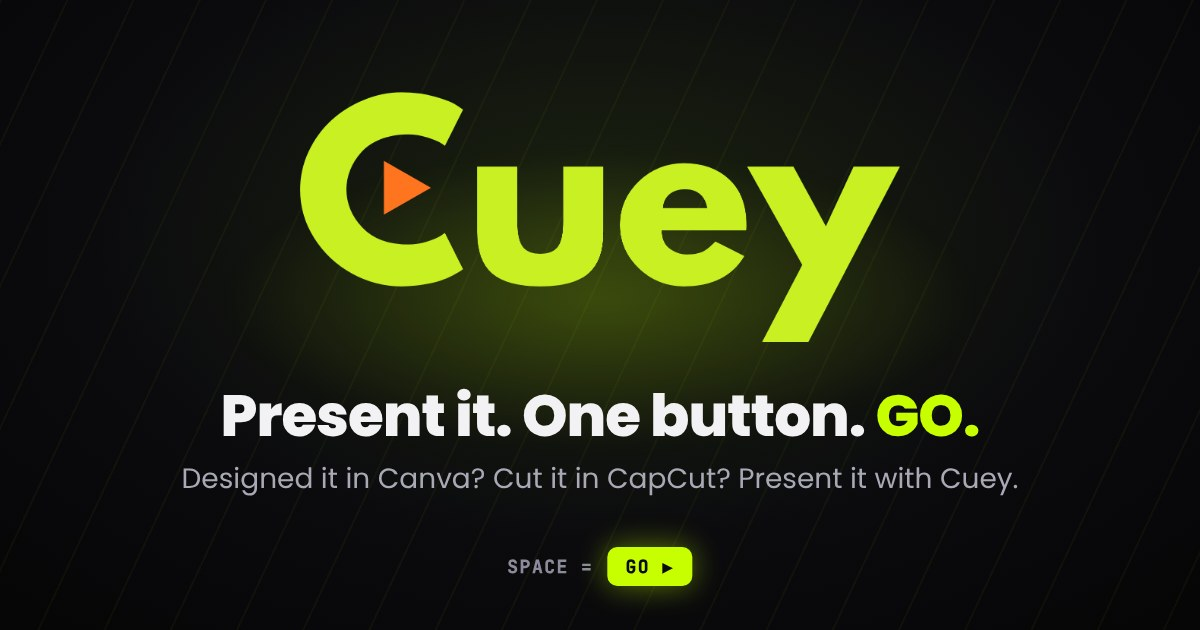
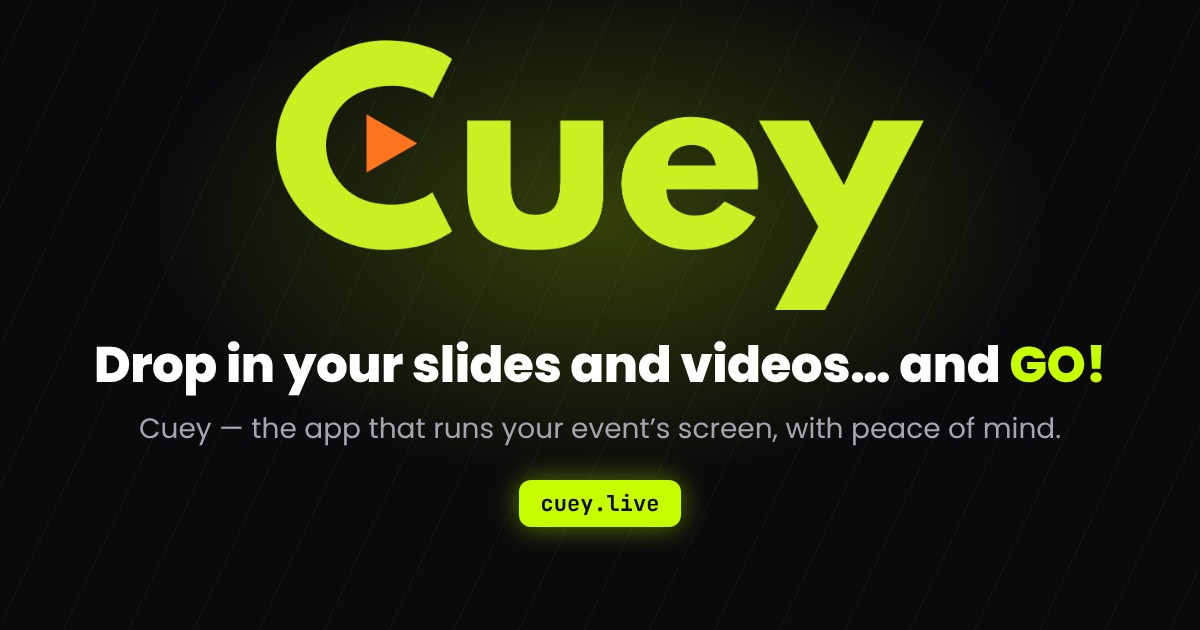
New share images (OG) with the new tagline and cuey.live; architecture: price ₪39/$12 and tagline
Claude-Session: https://claude.ai/code/session_01X78F4Nz5muKsTt7WRiCF3z

Changed region(s): [[0.0617, 0.0603, 0.925, 0.6937], [0.1542, 0.7238, 0.8633, 0.9651]]

diff --git a/docs/he/index.html b/docs/he/index.html
@@ -8,7 +8,7 @@
 <meta name="description" content="מארגנים אירוע, כנס או מופע? פשוט זורקים פנימה את כל השקופיות והסרטונים ולוחצים GO. Cuey — האפליקציה להפעלת התוכן באירוע, בראש שקט. נסו בחינם בדפדפן.">
 <meta property="og:title" content="Cuey — זורקים פנימה את השקופיות והסרטונים ו..GO!">
 <meta property="og:description" content="מארגנים אירוע, כנס או מופע? פשוט זורקים פנימה את השקופיות והסרטונים ו..GO! האפליקציה להפעלת התוכן באירוע, בראש שקט — נסו בחינם.">
-<meta property="og:image" content="https://cuey.live/og-he.jpg">
+<meta property="og:image" content="https://cuey.live/og-he.jpg?v=2">
 <meta property="og:image:width" content="1200">
 <meta property="og:image:height" content="630">
 <meta property="og:image:alt" content="Cuey — Present it. One button. GO.">
@@ -16,7 +16,7 @@
 <meta property="og:url" content="https://cuey.live/he/">
 <meta property="og:site_name" content="Cuey">
 <meta name="twitter:card" content="summary_large_image">
-<meta name="twitter:image" content="https://cuey.live/og-he.jpg">
+<meta name="twitter:image" content="https://cuey.live/og-he.jpg?v=2">
 <link rel="icon" href="../favicon.png">
 <link rel="preconnect" href="https://fonts.googleapis.com">
 <link href="https://fonts.googleapis.com/css2?family=Poppins:wght@400;500;600;700;800&family=Heebo:wght@400;500;600;700;800&family=JetBrains+Mono:wght@500&display=swap" rel="stylesheet">

diff --git a/docs/index.html b/docs/index.html
@@ -8,7 +8,7 @@
 <meta name="description" content="Running an event, a conference or a show? Just drop in all your slides and videos and press GO. Cuey — the app that runs your event’s screen, with peace of mind. Try it free in your browser.">
 <meta property="og:title" content="Cuey — Drop in your slides and videos… and GO!">
 <meta property="og:description" content="Running an event, a conference or a show? Just drop in your slides and videos… and GO! The app that runs your event’s screen — try it free.">
-<meta property="og:image" content="https://cuey.live/og-en.jpg">
+<meta property="og:image" content="https://cuey.live/og-en.jpg?v=2">
 <meta property="og:image:width" content="1200">
 <meta property="og:image:height" content="630">
 <meta property="og:image:alt" content="Cuey — Present it. One button. GO.">
@@ -16,7 +16,7 @@
 <meta property="og:url" content="https://cuey.live/">
 <meta property="og:site_name" content="Cuey">
 <meta name="twitter:card" content="summary_large_image">
-<meta name="twitter:image" content="https://cuey.live/og-en.jpg">
+<meta name="twitter:image" content="https://cuey.live/og-en.jpg?v=2">
 <link rel="icon" href="favicon.png">
 <link rel="preconnect" href="https://fonts.googleapis.com">
 <link href="https://fonts.googleapis.com/css2?family=Poppins:wght@400;500;600;700;800&family=JetBrains+Mono:wght@500&display=swap" rel="stylesheet">

diff --git a/app/cuey.html b/app/cuey.html
@@ -5,7 +5,7 @@
 <title>Cuey</title>
 <meta property="og:title" content="Cuey — Present it. One button. GO.">
 <meta property="og:description" content="Video & slide playback for live events — open it in your browser and press GO.">
-<meta property="og:image" content="https://cuey.live/og-en.jpg">
+<meta property="og:image" content="https://cuey.live/og-en.jpg?v=2">
 <meta property="og:image:width" content="1200">
 <meta property="og:image:height" content="630">
 <meta property="og:type" content="website">

diff --git a/ARCHITECTURE.md b/ARCHITECTURE.md
@@ -153,7 +153,7 @@ What is **fake** in the mockup: QR, code, link `cuey.app/s/4k7p`, "1 screen conn
 
 | | Free | Cuey Studio | Pro |
 |---|---|---|---|
-| Price | 0, forever | **$8 one-time** per account (chosen over monthly) | Subscription (price set once there is something to sell) |
+| Price | 0, forever | **$12 / ₪39 one-time** per account (was $8; chosen over monthly — monthly/annual still under discussion) | Subscription (price set once there is something to sell) |
 | Running a show | Everything — no cue-count limits (cues, GO, dissolve, audio, text, IN/OUT, basic share screen) | Same | Same |
 | Screen badge | "Powered by Cuey" in the corner (Output, shared screen) | None | None, or the venue's logo |
 | Studio tools | — | **Export MP4** + **Slide show** (replaced AUTO in v0.20.0 — groups of cues that run and loop by themselves; free to build and preview, Studio to run on the output) (free during beta, marked STUDIO in the app — v0.17.2) | Included |
@@ -173,7 +173,7 @@ Licensing mechanics (to build): Supabase accounts → after purchase the webhook
 | 1 ✅ | Single-file app, Electron installers, CI releases, landing page (EN + HE, demo video), PWA, Hebrew UI, logo, share screen (WebRTC), badge | **Done** (v0.17.1) |
 | 1a ✅ | Cuey Studio dialog (Export MP4, AUTO), pricing section EN+HE, "Cuey at real events" gallery, Hebrew home page, slider/LTR fixes, site motion | **Done** (v0.17.5) |
 | 1b | Apple Developer signing + notarization (removes "damaged" dialog) | Awaiting decision (~$99/yr) |
-| 1c | Accounts (Supabase) + sign-in button ✅ v0.18.0; Lemon Squeezy checkout + webhook for the $8 Cuey Studio purchase | In progress |
+| 1c | Accounts (Supabase) + sign-in button ✅ v0.18.0; Lemon Squeezy checkout + webhook for the Cuey Studio purchase ($12 / ₪39) — Lemon Squeezy looks to be in maintenance, pick another provider | In progress |
 | 2 | **Phone remote + screen link**: a screen opens `cuey.app/s/<code>` in any browser; the phone sends GO/back/black over WebSocket/WebRTC; media cached on the screen before "Go live" | Prototype only (§5) |
 | 3 | Cloud accounts & show sync; "Go live" = offline bundle on the screen device | Not started |
 | 4 | Pricing: free tier forever; paid = multi-screen, cloud storage, team | Later |
@@ -348,3 +348,7 @@ With a programme picture, the skill also returns `style.brand` {paper, light, mo
 - Every recurring cost goes into the project doc `cuey-costs.md`.
 - **Site on cuey.live (v0.37.1, 2026-10-27):** GitHub Pages custom domain (repo Settings ▸ Pages ▸ Custom domain = `cuey.live`, Enforce HTTPS on). Namecheap: four A records `@` → 185.199.108.153 / .109.153 / .110.153 / .111.153 and CNAME `www` → `bergerman1-svg.github.io.`. The site now sits at the domain root (no `/cuey/` prefix); old github.io links redirect by themselves. Every hard-coded link in the app, landing pages, desktop menu and share-screen link points to `https://cuey.live/`. No CNAME file needed (Pages deploys from the Website workflow).
 - **Next (Phase A):** Google Cloud OAuth for "Continue with Google", marketing-consent checkbox. Payments: Lemon Squeezy looks to be in maintenance — pick another provider first.
+
+## 28. Price & tagline (2026-10-27)
+- **Studio price:** $12 once on the English site and app; **₪39 once** on the Hebrew site and in the Hebrew app (plan table, Powered-by card, Studio dialogs, account menu). Free column shows ₪0 in Hebrew.
+- **Tagline:** HE "Cuey — האפליקציה להפעלת התוכן באירוע, בראש שקט" · EN "Cuey. The app that runs your event's screen — with peace of mind." Used in the landing hero, meta/OG descriptions, the share images (`docs/og-{en,he}.jpg`, linked with `?v=2` so WhatsApp/Facebook refresh) and the promo end card.
